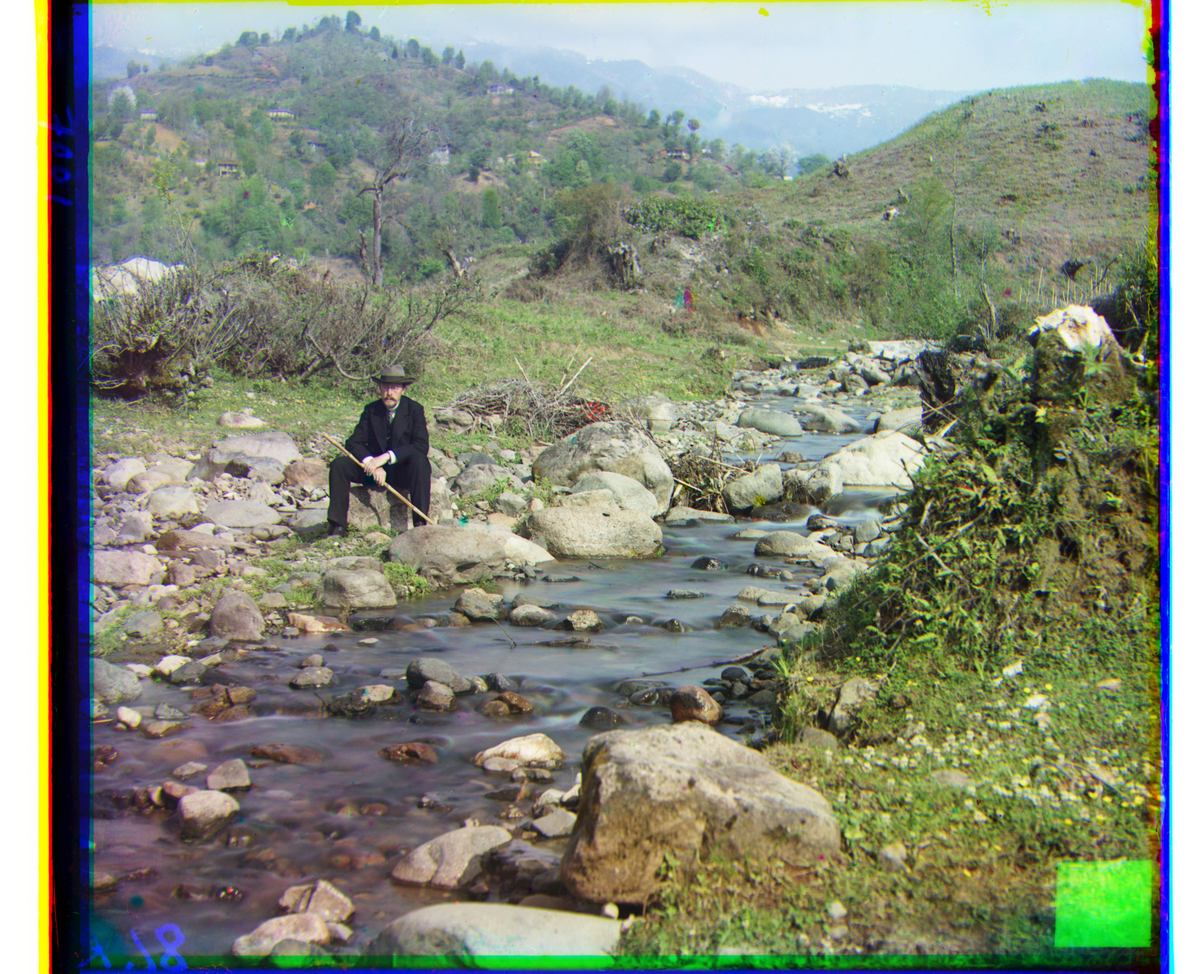
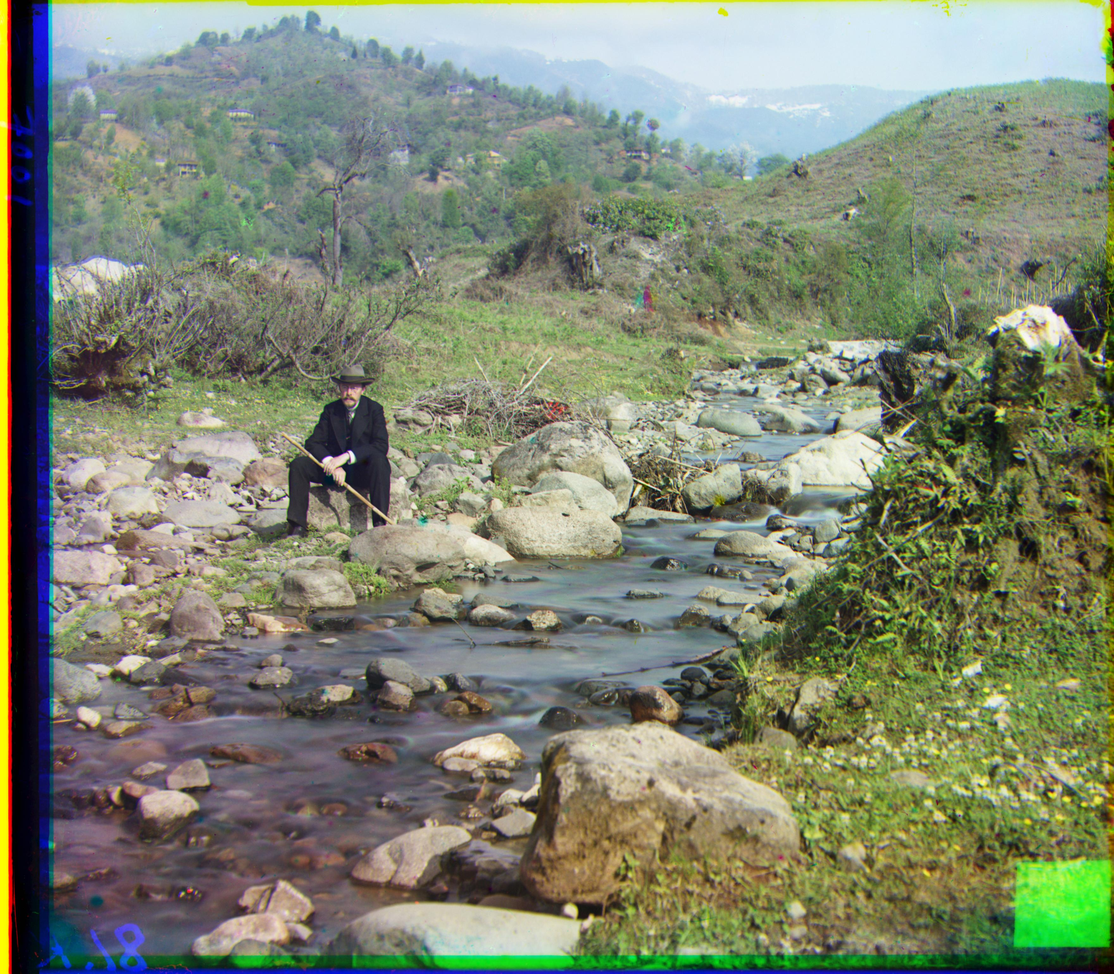
update auto crop method

diff --git a/Assignments/Assignment_02/Code/extra.py b/Assignments/Assignment_02/Code/extra.py
@@ -26,12 +26,10 @@ def find_edge(image):
 # Functions for extra credits
 def auto_cropping(image, rShift, gShift):
 
-    r = image[:, :, 0]
-    g = image[:, :, 1]
-    b = image[:, :, 2]
+    r, g, b = image[:, :, 0], image[:, :, 1], image[:, :, 2]
 
-    # crop the image
-    # horizontal shift
+    # first remove shifts
+        # horizontal shift
     if rShift[1] < 0 and gShift[1] < 0:
         max_shift = max(abs(rShift[1]), abs(gShift[1]))
         r = r[:, :max_shift]
@@ -77,7 +75,26 @@ def auto_cropping(image, rShift, gShift):
         g = g[gShift[0]:rShift[0], :]
         b = b[gShift[0]:rShift[0], :]
 
-    return np.stack((r, g, b), axis=2)
+    # then remove white borders
+    upper = 95
+    mask_white = (r >= np.percentile(r, upper)) | (g >= np.percentile(g, upper)) | (b >= np.percentile(b, upper))
+    mask_white = np.logical_not(mask_white)
+
+
+    top = np.median(np.argmax(mask_white, axis=0))
+    bottom = np.median(mask_white.shape[0] - np.argmax(mask_white[::-1], axis=0))
+    left = np.median(np.argmax(mask_white, axis=1))
+    right = np.median(mask_white.shape[1] - np.argmax(mask_white[::-1], axis=1))
+
+    finalImage = np.stack([r, g, b], axis=2)
+    finalImage = finalImage[int(top):int(bottom), int(left):int(right), :]
+
+    # import matplotlib.pyplot as plt
+    # plt.imshow(mask_white)
+    # plt.show()
+    # raise NotImplementedError
+
+    return finalImage
 
 def auto_contrasting(r, g, b):
     # find the minimum and maximum value of the image
